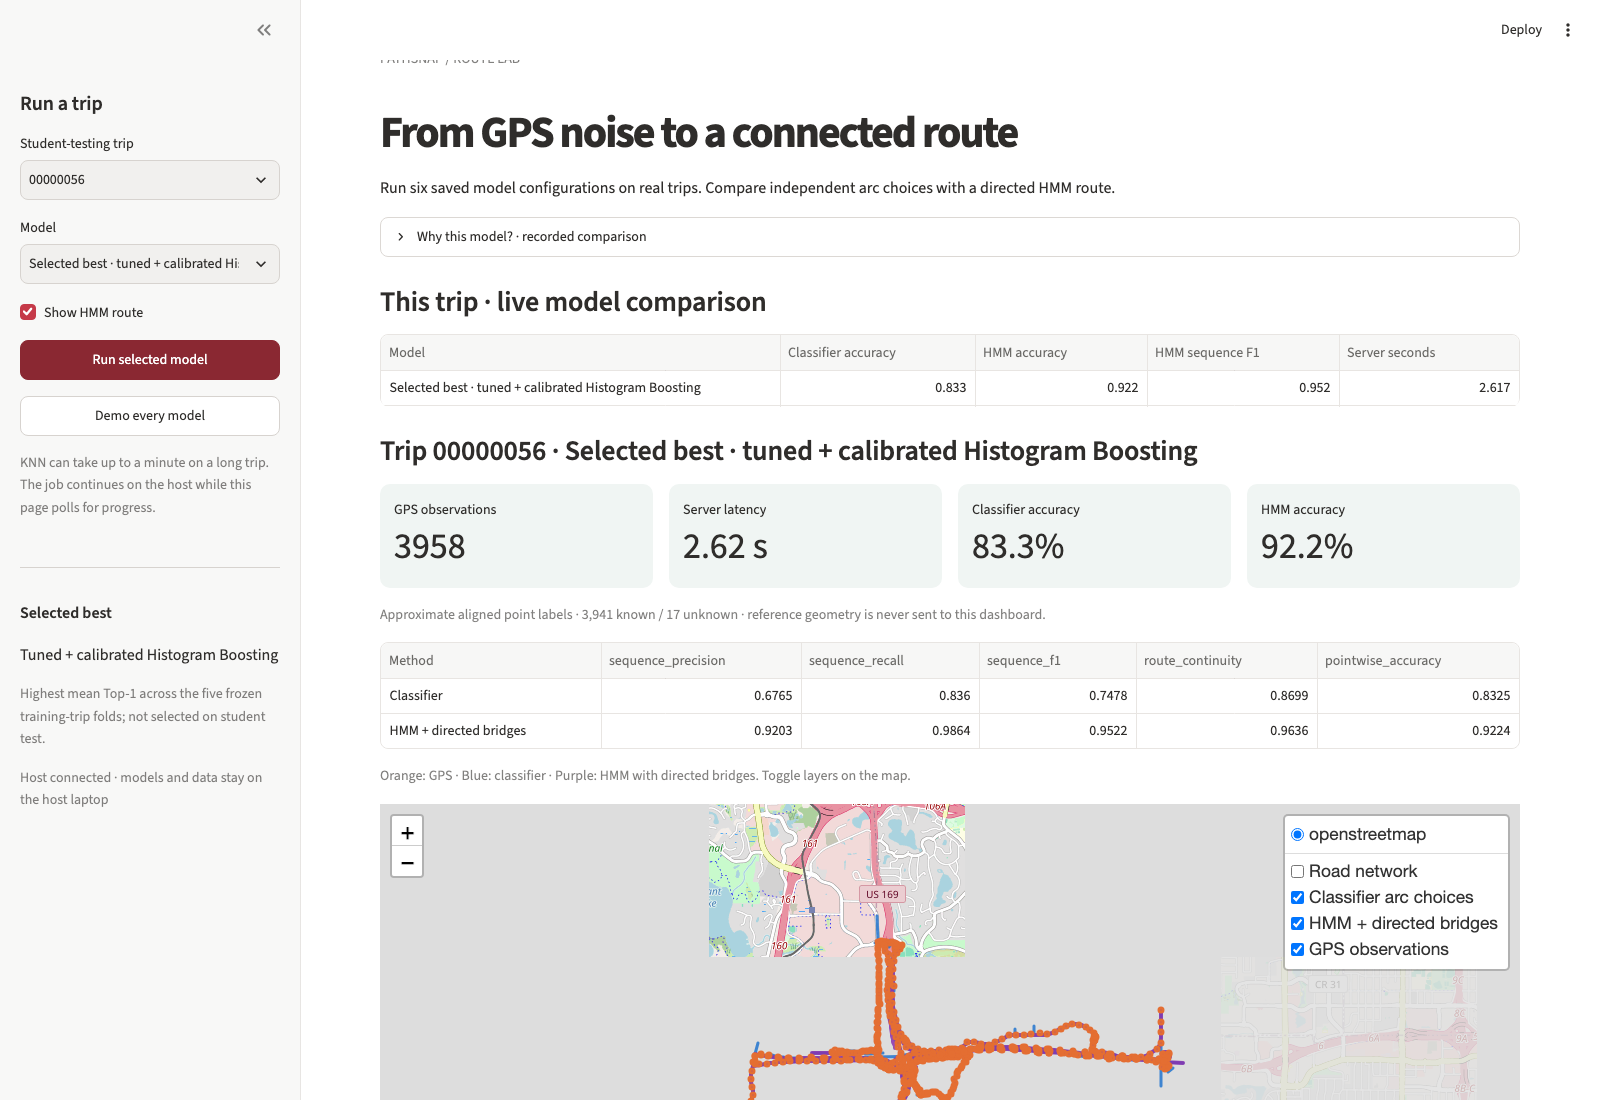
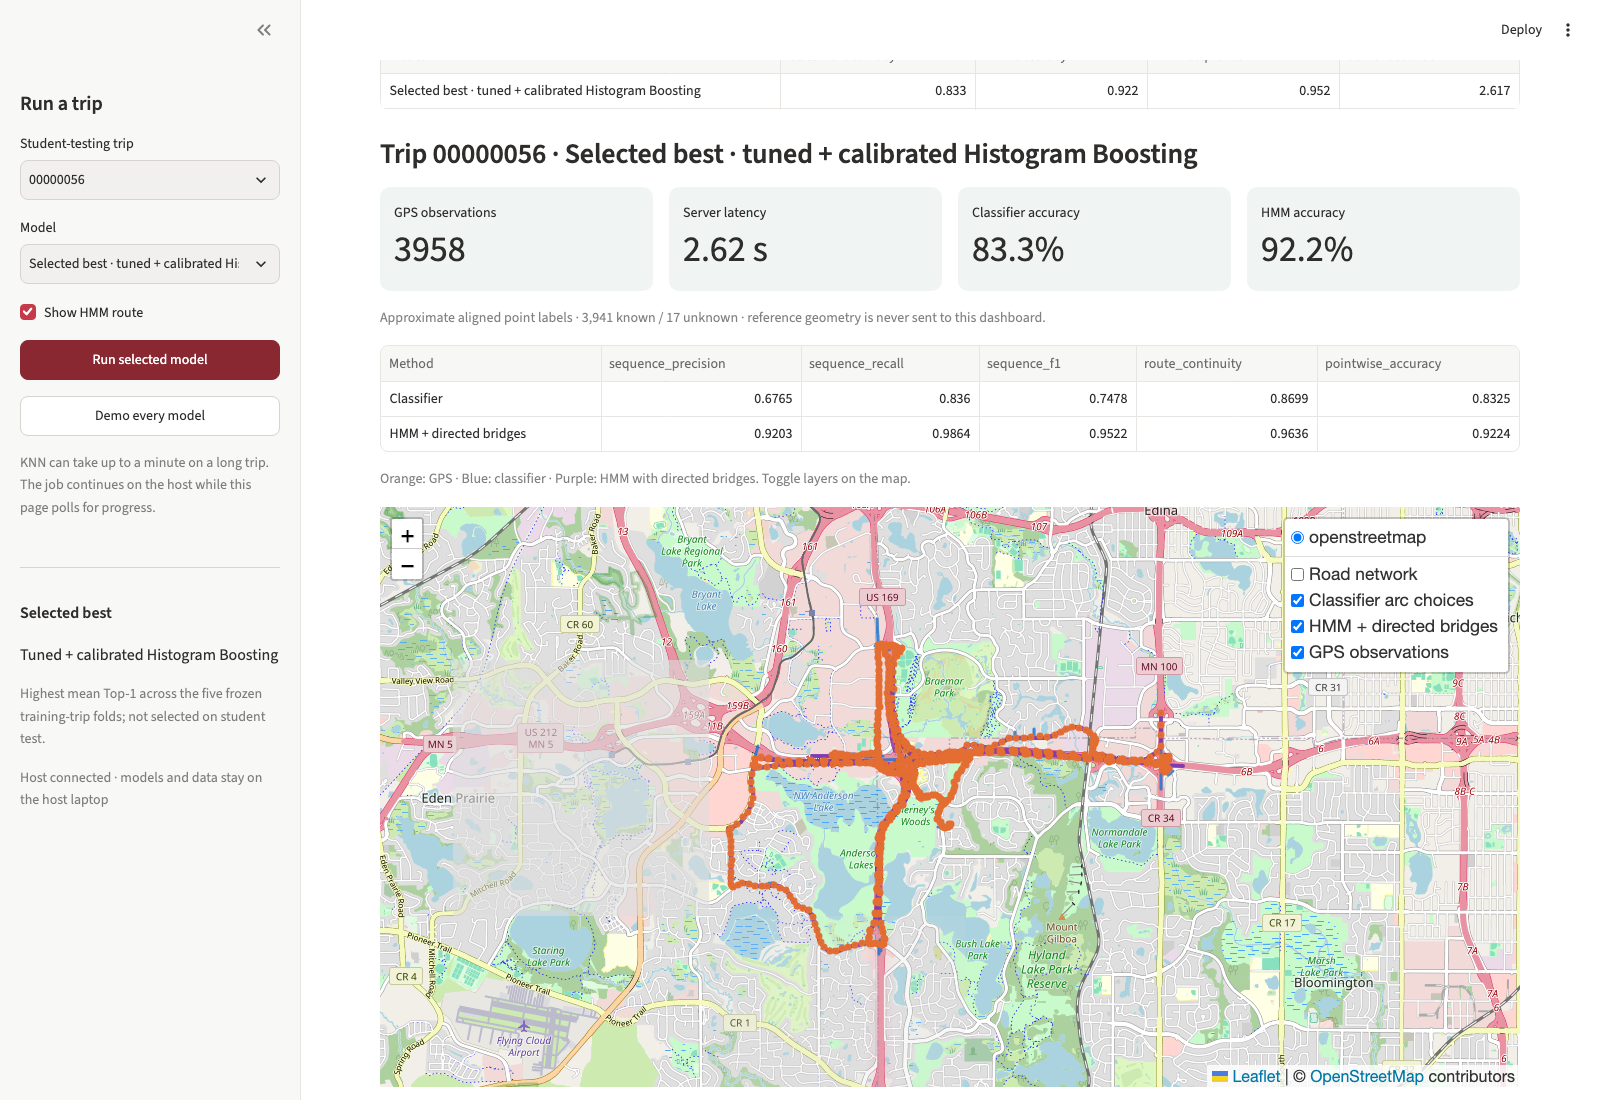
[feat] update UI smoke tests and add API response example; enhance screenshot capturing in UI tests, update dashboard image, and introduce a new JSON file for API response metrics tracking.

diff --git a/scripts/ui_smoke.py b/scripts/ui_smoke.py
@@ -26,6 +26,21 @@ def main():
         def select(index,value):
             page.get_by_role('combobox').nth(index).click()
             page.get_by_role('option',name=value,exact=True).click()
+        def capture(name, heading):
+            page.get_by_text(heading,exact=True).evaluate("el => el.scrollIntoView({block:'start'})")
+            page.locator('[data-testid="stMain"]').evaluate("el => el.scrollBy(0,-75)")
+            frame=map_ready()
+            # Let every visible basemap tile settle, not just the first tile.
+            loaded=frame.locator('.leaflet-container').evaluate("""el => new Promise(resolve => {
+                const start=Date.now(); const poll=()=>{
+                    const images=[...el.querySelectorAll('img.leaflet-tile')];
+                    if(images.length && images.every(img=>img.complete && img.naturalWidth>0)) return resolve(true);
+                    if(Date.now()-start>20000) return resolve(false);
+                    setTimeout(poll,100);
+                }; poll();
+            })""")
+            page.screenshot(path=str(figures/name),full_page=False)
+            return loaded
         def map_ready():
             page.locator('iframe:visible').first.wait_for(timeout=60000)
             frame=page.frame_locator('iframe:visible').first
@@ -45,8 +60,7 @@ def main():
             rows.append(dict(trip_id=trip,model='best',status='pass',map_layers=labels.splitlines()))
             if trip=='00000056':
                 # Wait for basemap images as well as route geometry.
-                frame.locator('.leaflet-tile-loaded').first.wait_for(timeout=30000)
-                page.screenshot(path=str(figures/'dashboard_best.png'),full_page=True)
+                assert capture('dashboard_best.png',f'Trip {trip} · Selected best · tuned + calibrated Histogram Boosting'), 'Largest-trip basemap tiles did not load'
             print(f'UI PASS {trip}/best',flush=True)
         # The actual batch button must advance through every model and finish.
         select(0,trips[0])
@@ -57,8 +71,8 @@ def main():
         # Check all six rows actually arrived in the live comparison dataframe.
         table=page.locator('[data-testid="stDataFrame"]:visible').first
         expect(table).to_be_visible()
-        page.get_by_text('This trip · live model comparison',exact=True).scroll_into_view_if_needed()
-        page.screenshot(path=str(figures/'dashboard_models.png'),full_page=True)
+        page.get_by_text('Running Selected best',exact=False).wait_for(state='hidden',timeout=15000)
+        assert capture('dashboard_models.png','This trip · live model comparison'), 'Comparison basemap tiles did not load'
         labels=['K-Nearest Neighbours','Multi-Layer Perceptron','Logistic Regression','Random Forest','Histogram Boosting · baseline','Selected best · tuned + calibrated Histogram Boosting']
         for label in labels:
             select(1,label)

diff --git a/ui/app.py b/ui/app.py
@@ -12,7 +12,7 @@ load_dotenv()
 API_URL = os.getenv("API_URL", "http://127.0.0.1:8000").rstrip("/")
 st.set_page_config(page_title="PATHSNAP · Route Lab", page_icon="🧭", layout="wide")
 st.markdown("""<style>
-.block-container {padding-top:2rem; max-width:1450px}
+.block-container {padding-top:4rem; max-width:1450px}
 h1 {letter-spacing:-.045em} [data-testid="stMetric"] {background:#f0f5f3;padding:14px;border-radius:10px}
 </style>""", unsafe_allow_html=True)
 st.caption("PATHSNAP / ROUTE LAB")
